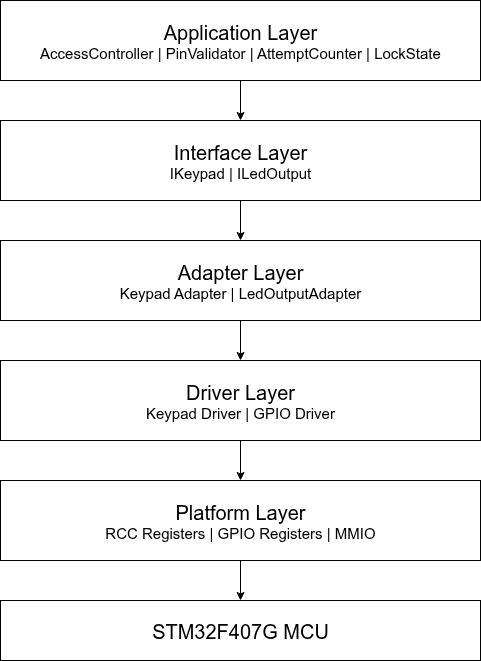
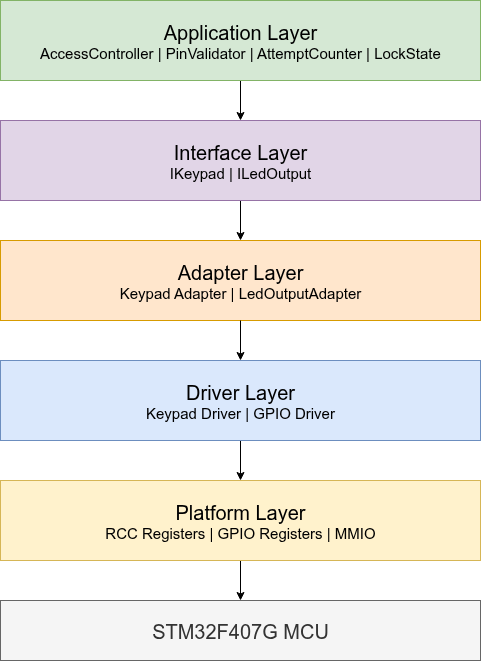
Add hardware documentation and imgs

diff --git a/Docs/hardware.md b/Docs/hardware.md
@@ -1,0 +1,107 @@
+# Hardware Overview
+
+## Target Platform
+
+The project is implemented on the STM32F407G-DISC1 development board.
+
+Main hardware components:
+
+- STM32F407VG microcontroller
+- ARM Cortex-M4 core
+- ST-LINK debug interface
+- On-board user LEDs
+
+The firmware directly accesses the MCU peripherals through memory-mapped registers.
+
+---
+
+# Hardware Block Diagram
+
+![Hardware Block Diagram](img/hardware_block_diagram.png)
+
+The system consists of the STM32F407 microcontroller connected to external input and output components.
+
+---
+
+# Components
+
+## STM32F407G-DISC1
+
+The STM32F407G-DISC1 is the main processing unit of the system.
+
+Responsibilities:
+
+- execute the access control firmware
+- handle keypad input
+- control LED output
+- provide debugging and programming interface through ST-LINK
+
+---
+
+## 4x4 Matrix Keypad
+
+The keypad provides user input for PIN authentication.
+
+The keypad is connected using a matrix layout:
+
+- 4 row signals
+- 4 column signals
+
+The firmware scans the keypad matrix by activating rows and reading column states.
+
+Connection details:
+
+| Signal | MCU Pin |
+|---|---|
+| Row 1 | PD0 |
+| Row 2 | PD1 |
+| Row 3 | PD2 |
+| Row 4 | PD3 |
+| Column 1 | PD8 |
+| Column 2 | PD9 |
+| Column 3 | PD10 |
+| Column 4 | PD11 |
+
+---
+
+## LED Output
+
+The system uses the on-board LEDs for status feedback.
+
+| Function | MCU Pin | Behaviour |
+|---|---|---|
+| Green LED | PD12 | Valid PIN |
+| Red LED | PD14 | Invalid PIN |
+| Red LED blinking | PD14 | Lockout state |
+
+---
+
+# Debug Interface
+
+The board uses the integrated ST-LINK interface for programming and debugging.
+
+Used tools:
+
+- ST-LINK
+- OpenOCD
+- GDB
+
+The debug interface allows:
+
+- firmware flashing
+- breakpoints
+- variable inspection
+- peripheral register inspection
+
+---
+
+# Hardware Design Notes
+
+The project intentionally uses direct register-level access instead of STM32 HAL.
+
+This provides:
+
+- understanding of MCU peripherals
+- direct control over hardware
+- minimal software abstraction
+- insight into embedded system fundamentals

diff --git a/Docs/architecture.md b/Docs/architecture.md
@@ -179,6 +179,22 @@ Benefits:
 
 ---
 
+## Module Interaction
+
+The main application flow is:
+
+```text
+User Input  
+→ Keypad Driver  
+→ KeypadAdapter  
+→ AccessController  
+→ PinValidator / AttemptCounter  
+→ LedOutputAdapter  
+→ GPIO Driver
+```
+
+The AccessController coordinates the authentication process and uses interfaces to communicate with hardware-dependent components.
+
 ## Testable Application Design
 
 The application layer uses interfaces instead of concrete hardware implementations.

diff --git a/README.md b/README.md
@@ -1,9 +1,17 @@
 # STM32F407 Register-Level Access Control System
 Bare-metal STM32F407 access control system implemented without HAL or CubeMX.
 
+<img src="Docs/img/hardware.jpg" align="right" width="350">
+
 ## Target Hardware
 - STM32F407G-DISC1
 - ARM Cortex-M4
+- 4x4 Matrix Keypad
+- On-board LEDs (Green LED / Red LED)
+
+The firmware directly controls the MCU peripherals through register-level access.
+
+<br clear="right"/>
 
 ## Toolchain
 - arm-none-eabi-gcc
